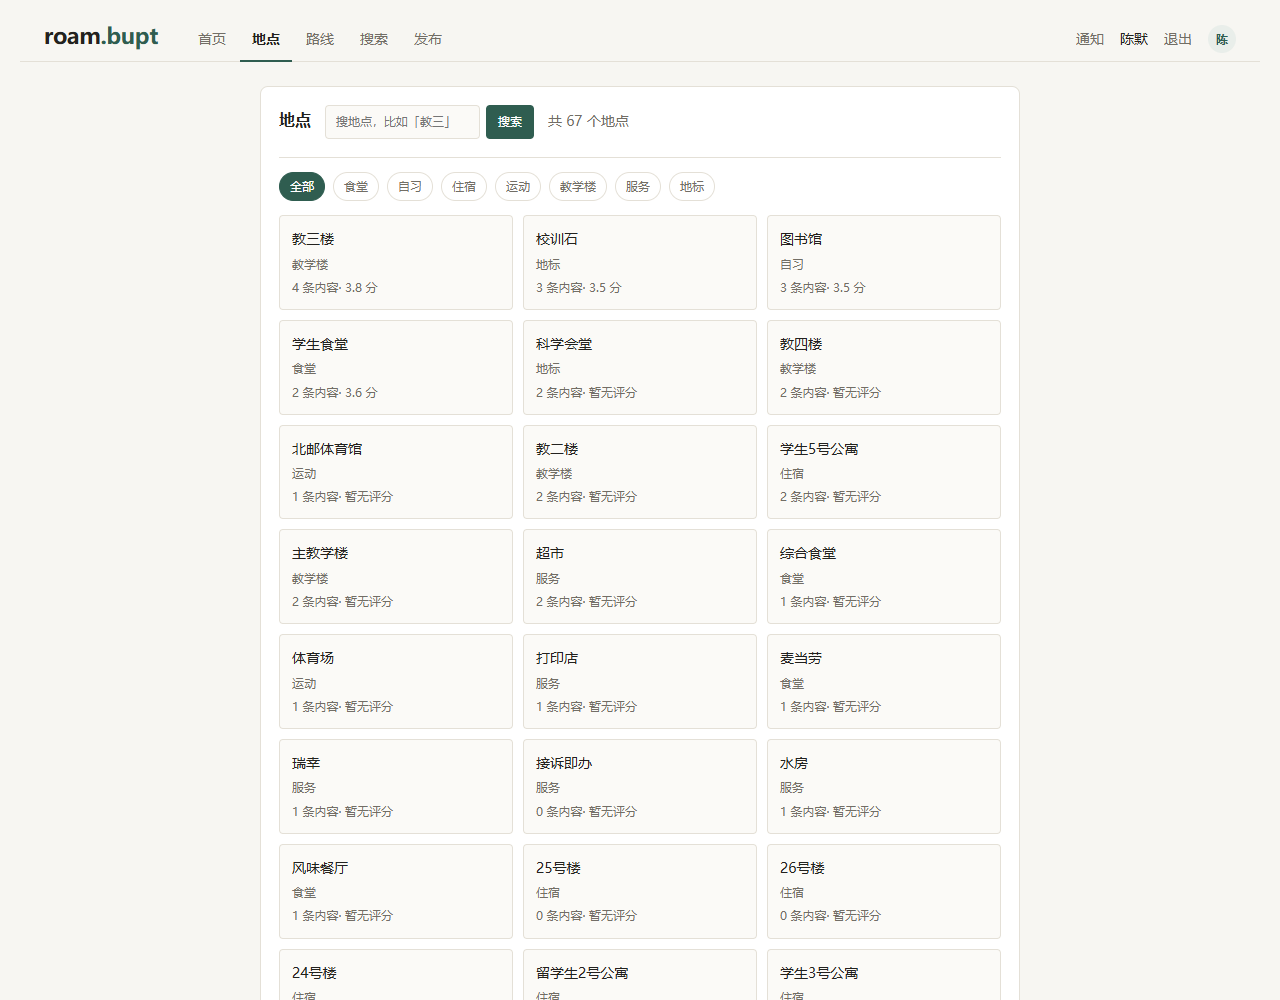
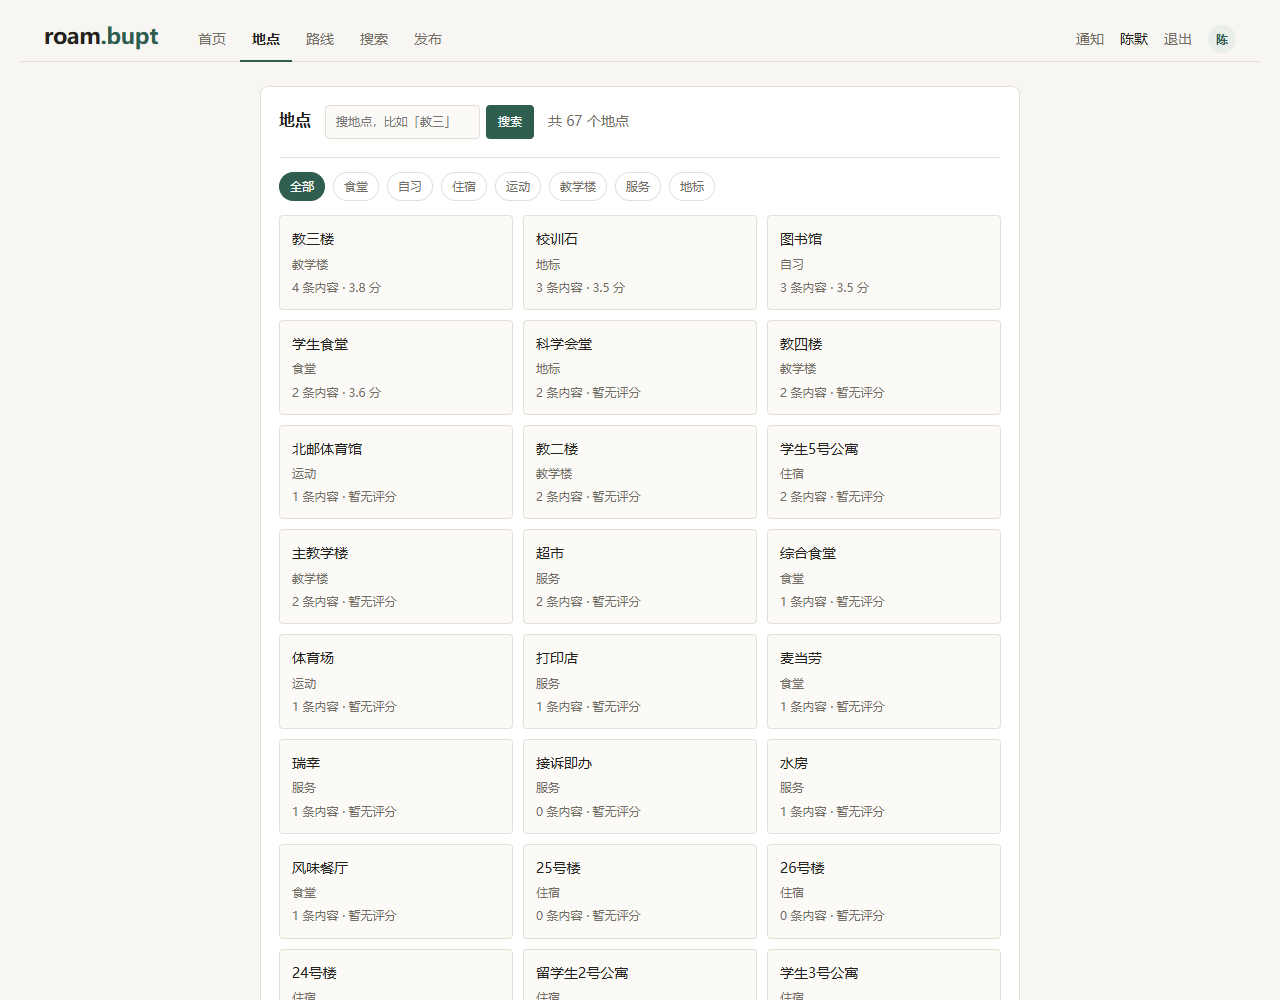
fix(web): 补上真正生效的移动端媒体查询
之前的替换锚点没匹配上，@media 块根本没写进 CSS；地图仍按桌面尺寸算宽度导致 375 下溢出 39px。

diff --git a/frontend/src/styles/base.css b/frontend/src/styles/base.css
@@ -1735,3 +1735,21 @@ ol {
   background: #fbf7ec;
   border-left: 2px solid #d9b96a;
 }
+
+/* ---------- 移动端 ---------- */
+
+@media (max-width: 640px) {
+  .map {
+    width: 100%;
+    height: auto;
+  }
+
+  .nav-toolbar {
+    flex-direction: column;
+    align-items: stretch;
+  }
+
+  .nav-toolbar .pick {
+    min-width: 0;
+  }
+}
